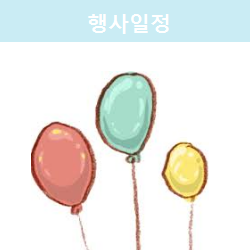
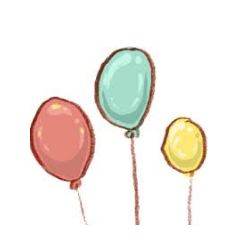
msg delete complete

diff --git a/js/memo.js b/js/memo.js
@@ -15,7 +15,7 @@ var memo_array = new Array();
 
 function AddMemo() {
     var inputContent = prompt('메모 내용', '');
-    if (inputContent == "") return;
+    if (inputContent == '') return;
     var my = parseInt(memo_array.length / 4) * 100 + 100;
     var mx = (memo_array.length % 4) * 100;
 
@@ -31,12 +31,22 @@ function AddMemo() {
     $.get('http://localhost:3000/data/memo', client_json, function(obj){
         console.log(obj)
     });
-
-
-    //alert(memo_array[1].my_content);
-    //alert(memo_array.length);
 }
 
+var isDel = false;
+function DelMemo() {
+    if (isDel == false){
+        alert("삭제할 메모를 선택해주세요");
+        deleting = false;
+        document.getElementById('but2').value = "삭제 취소";
+        isDel = true;
+    }
+    else {
+        alert("삭제를 취소 하였습니다.")
+        document.getElementById('but2').value = "메모 삭제";
+        isDel = false;
+    }
+}
 
 var fps = 10;
 var position = {};
@@ -71,22 +81,47 @@ function LoadMemo() {
 var dragging;
 var dragIndex;
 
+var deleting;
+var delIndex;
+
 function mouseDownListener(evt) {
     var blank = canvas.getBoundingClientRect();
-    var canvas_x = (evt.clientX - blank.left) * (canvas.width/blank.width);
-    var canvas_y = (evt.clientY - blank.top) * (canvas.height/blank.height);
-
+    var canvas_x = (evt.clientX - blank.left) * (canvas.width / blank.width);
+    var canvas_y = (evt.clientY - blank.top) * (canvas.height / blank.height);
     var index_memo;
-    //alert("X=" + canvas_x + "Y=" + canvas_y);
-    for (index_memo = 0; index_memo < memo_array.length; index_memo++) {
-        if(memo_array[index_memo].HitTest(canvas_x, canvas_y)){
-            dragging = true;
-            dragIndex = index_memo;
+
+    if (isDel == false) {
+        for (index_memo = 0; index_memo < memo_array.length; index_memo++) {
+            if (memo_array[index_memo].HitTest(canvas_x, canvas_y)) {
+                dragging = true;
+                dragIndex = index_memo;
+            }
         }
-    }
-    if (dragging) {
-        window.addEventListener("mousemove", mouseMoveListener, false);
-        window.addEventListener("mouseup", mouseUpListener, false);
+        if (dragging) {
+            window.addEventListener("mousemove", mouseMoveListener, false);
+            window.addEventListener("mouseup", mouseUpListener, false);
+        }
+    } else {
+        for (index_memo = 0; index_memo < memo_array.length; index_memo++) {
+            if (memo_array[index_memo].HitTest(canvas_x, canvas_y)) {
+                delIndex = index_memo;
+                deleting = true;
+            }
+        }
+        if (deleting == true){
+            alert(delIndex + "번 메모를 삭제하시겠습니까?")
+            var del_data = memo_array[delIndex].my_content
+            console.log(del_data);
+            var client_json = { type: "MEMO", msg: 'REQUEST_MEMO_DEL', data: del_data };
+            $.get('http://localhost:3000/data/memo', client_json, function(obj){
+                console.log(obj)
+            });
+            memo_array.splice(delIndex,1);
+            deleting = false;
+            document.getElementById('but2').value = "메모 삭제";
+            isDel = false;
+        }
+
     }
     //canvas.removeEventListener("mousedown", mouseDownListener, false);
 }
@@ -158,6 +193,6 @@ Memo.prototype.getMemo = function() {
 };
 
 Memo.prototype.HitTest = function(cx, cy) {
-    return ((cx > this.x - this.width) && (cx < this.x + this.width)
-        && (cy > this.y - this.height) && (cy < this.y + this.height));
+    return ((cx > this.x) && (cx < this.x + this.width)
+        && (cy > this.y) && (cy < this.y + this.height));
 }

diff --git a/app.js b/app.js
@@ -31,8 +31,8 @@ var calendarSchema = mongoose.Schema({
     created: {type: Date, default: Date.now}
 });
 
-var Memo = mongoose.model('Msg_memo', memoSchema);
-var Calendar = mongoose.model('Msg_calendar', calendarSchema);
+var Memo = mongoose.model('Memo_msg', memoSchema);
+var Calendar = mongoose.model('Calendar_msg', calendarSchema);
 
 app.get('/', function(req, res){
     res.sendFile(__dirname + '/index.html');
@@ -59,8 +59,13 @@ app.get('/data/memo', function(req, res){
                 console.log("save memo");
             });
             break;
-        case "REQUEST_MEMO_REMOVE":
+        case "REQUEST_MEMO_DEL":
+            //var newMsg = new Memo({data: client_obj.data});
 
+            Memo.remove({data: client_obj.data}, function (err) {
+                if(err) console.log(err);
+                console.log("del memo");
+            });
             break;
         default:
             return

diff --git a/index.html b/index.html
@@ -48,7 +48,7 @@
             width: 94%;
             height: 60%;
             text-align: center;
-            background: url('./public/resource/calendar.png');
+
             box-shadow: 0 2px 10px rgba(11,13,12, 0.2);
             background-repeat:no-repeat;
             background-size:cover;
@@ -201,7 +201,7 @@
             </canvas>
             <div class="MemoBtnContainer" id="MemoBtnContainer">
                 <input class='but' id='but1' type='button' value='메모 추가' onclick="AddMemo()">
-                <input class='but' id='but2' type='button' value='메모 삭제'>
+                <input class='but' id='but2' type='button' value='메모 삭제' onclick="DelMemo()">
             </div>
 
             <div class="EventList" id="EventList">
